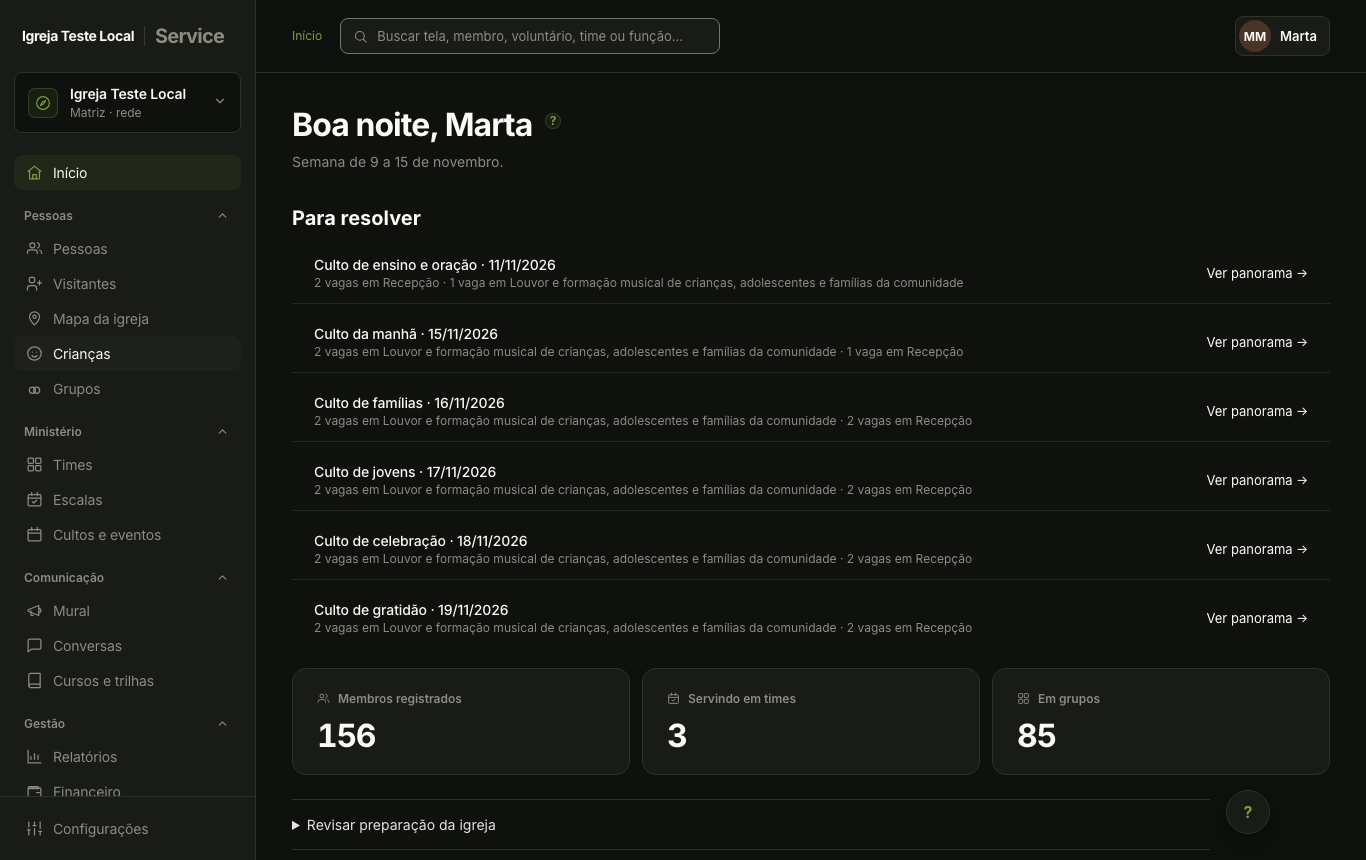
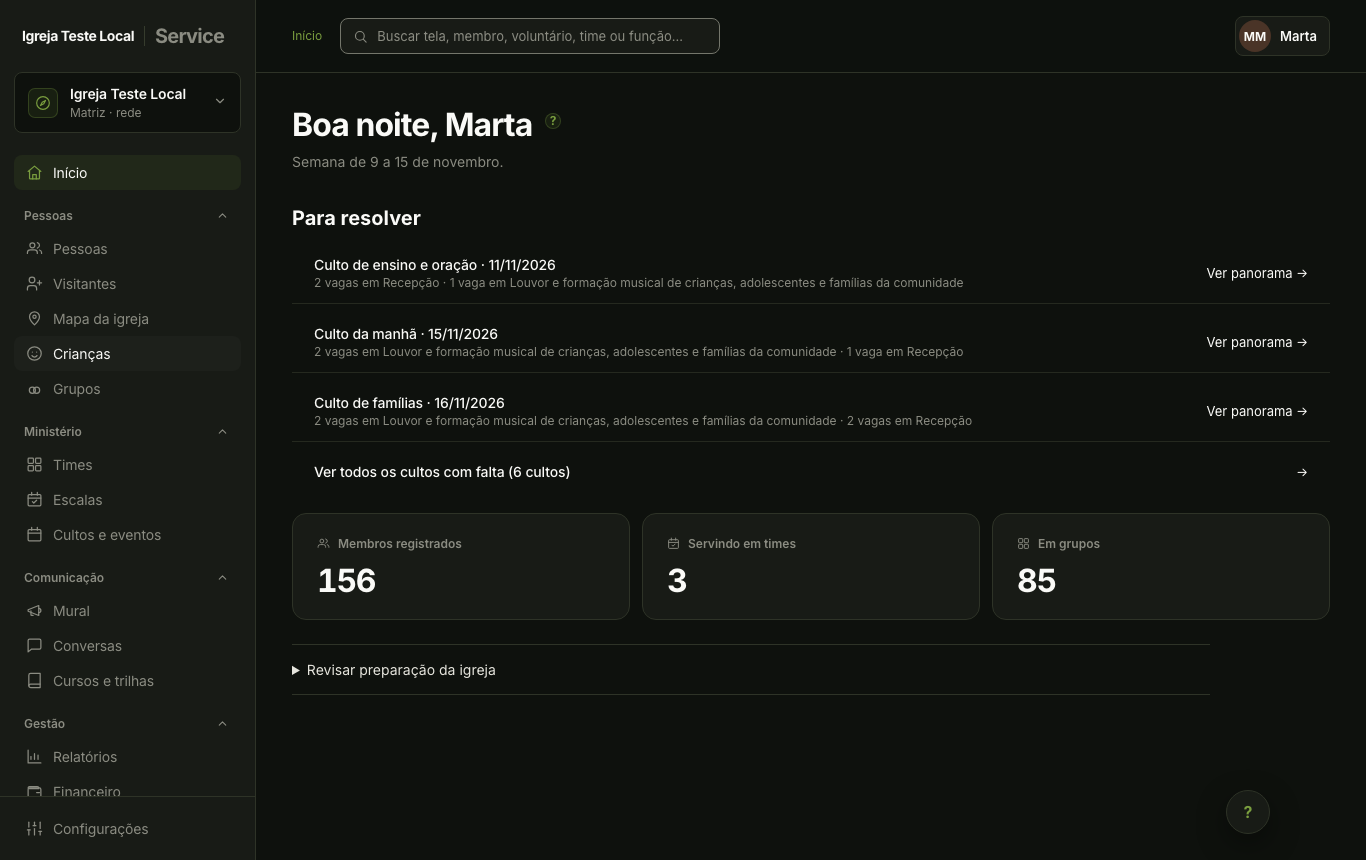
fix(service): limitar cobertura a três prazos no Início

diff --git a/app/service/painel/telas/Inicio.tsx b/app/service/painel/telas/Inicio.tsx
@@ -330,13 +330,12 @@ export function Painel({
         </section>
       )}
       {/* E3: pendências do módulo Escalas, por prazo; uma linha por culto,
-         sem cortar os próximos 14 dias. A cobertura detalhada vive no Panorama. */}
+         até três prazos à vista e uma entrada para a lista completa. O detalhe vive no Panorama. */}
       {!ativando && (() => {
-        const filas: Array<{ key: string; ic: string; t: string; s: string; go: string; action: () => void }> = [];
-        for (const { conteudo: { evento, resumo } } of faltas) {
+        const filas: Array<{ key: string; t: string; s: string; go: string; action: () => void }> = [];
+        for (const { conteudo: { evento, resumo } } of faltas.slice(0, 3)) {
           filas.push({
             key: `cobertura-${evento.id}`,
-            ic: "escalas",
             t: `${evento.name} · ${formatDateBR(evento.eventDate)}`,
             s: ` · ${resumo}`,
             go: "Ver panorama →",
@@ -344,22 +343,31 @@ export function Painel({
           });
         }
         if (!liderDeTime && podeAbrir("visitantes") && visitantesSemContato > 0) {
-          filas.push({ key: "visitantes-contato", ic: "visitante", t: visitantesSemContato === 1 ? "1 visitante sem contato" : `${visitantesSemContato} visitantes sem contato`, s: " · há mais de 48h", go: "Ver →", action: () => setRoute("visitantes") });
+          filas.push({ key: "visitantes-contato", t: visitantesSemContato === 1 ? "1 visitante sem contato" : `${visitantesSemContato} visitantes sem contato`, s: " · há mais de 48h", go: "Ver →", action: () => setRoute("visitantes") });
         }
         if (!liderDeTime && podeAbrir("visitantes") && visitantesPeloLink > 0) {
-          filas.push({ key: "visitantes-link", ic: "visitante", t: `${plural(visitantesPeloLink, "visitante")} ${visitantesPeloLink === 1 ? "se cadastrou" : "se cadastraram"} pelo link`, s: " · esperando o 1º contato", go: "Ver →", action: () => setRoute("visitantes") });
+          filas.push({ key: "visitantes-link", t: `${plural(visitantesPeloLink, "visitante")} ${visitantesPeloLink === 1 ? "se cadastrou" : "se cadastraram"} pelo link`, s: " · esperando o 1º contato", go: "Ver →", action: () => setRoute("visitantes") });
         }
         if (!liderDeTime && journeyRequests.length > 0) {
-          filas.push({ key: "jornada", ic: "membros", t: journeyRequests.length === 1 ? ct("1 pedido na {caminhada}") : ct(`${journeyRequests.length} pedidos na {caminhada}`), s: " · esperando aprovação", go: "Revisar →", action: () => { const el = document.getElementById("caminhada-pendente"); if (el) el.scrollIntoView({ behavior: "smooth", block: "center" }); else setRoute("membros"); } });
+          filas.push({ key: "jornada", t: journeyRequests.length === 1 ? ct("1 pedido na {caminhada}") : ct(`${journeyRequests.length} pedidos na {caminhada}`), s: " · esperando aprovação", go: "Revisar →", action: () => { const el = document.getElementById("caminhada-pendente"); if (el) el.scrollIntoView({ behavior: "smooth", block: "center" }); else setRoute("membros"); } });
         }
         if (!liderDeTime && pedidosPendentes > 0) {
-          filas.push({ key: "novos-cadastros", ic: "pessoa", t: pedidosPendentes === 1 ? "1 pedido de conta pendente" : `${pedidosPendentes} pedidos de conta pendentes`, s: " · aguardando aprovação", go: "Revisar →", action: () => { const el = document.getElementById("novos-cadastros"); if (el) el.scrollIntoView({ behavior: "smooth", block: "center" }); } });
+          filas.push({ key: "novos-cadastros", t: pedidosPendentes === 1 ? "1 pedido de conta pendente" : `${pedidosPendentes} pedidos de conta pendentes`, s: " · aguardando aprovação", go: "Revisar →", action: () => { const el = document.getElementById("novos-cadastros"); if (el) el.scrollIntoView({ behavior: "smooth", block: "center" }); } });
         }
         if (!liderDeTime && cuidado && cuidado.lista.length > 0) {
-          filas.push({ key: "cuidado", ic: "alerta", t: `${plural(cuidado.lista.length, "pessoa")} sem registro`, s: ` · há ${plural(cuidado.semanas, "semana")} ou mais`, go: "Ver →", action: () => setRoute("membros") });
+          filas.push({ key: "cuidado", t: `${plural(cuidado.lista.length, "pessoa")} sem registro`, s: ` · há ${plural(cuidado.semanas, "semana")} ou mais`, go: "Ver →", action: () => setRoute("membros") });
         }
         if (!liderDeTime && cuidado && (cuidado.criancas?.length ?? 0) > 0) {
-          filas.push({ key: "kids-sumindo", ic: "kids", t: `${plural(cuidado.criancas!.length, "criança")} sem check-in`, s: " · vale um contato", go: "Ver →", action: () => setRoute("criancas") });
+          filas.push({ key: "kids-sumindo", t: `${plural(cuidado.criancas!.length, "criança")} sem check-in`, s: " · vale um contato", go: "Ver →", action: () => setRoute("criancas") });
+        }
+        if (faltas.length > 3) {
+          filas.push({
+            key: "cobertura-todos",
+            t: `${ct("Ver todos os {cultos} com falta")} (${plural(faltas.length, ct("{culto}"))})`,
+            s: "",
+            go: "→",
+            action: () => setRoute("escalas"),
+          });
         }
         if (filas.length > 0) {
           return (
@@ -370,7 +378,7 @@ export function Painel({
                   <Acao className={linhaClasse({})} key={f.key} onClick={f.action}>
                     <div className="mini-main">
                       <div className="mini-title">{f.t}</div>
-                      <div className="mini-sub">{f.s.replace(/^ · /, "")}</div>
+                      {f.s && <div className="mini-sub">{f.s.replace(/^ · /, "")}</div>}
                     </div>
                     <span className="text-pn-14">{f.go}</span>
                   </Acao>

diff --git a/app/service/modules/escalas/manifest.ts b/app/service/modules/escalas/manifest.ts
@@ -35,9 +35,9 @@ export default defineModule({
     {
       tela: "Início do painel: Para resolver, seis cultos e time com nome longo (E3)",
       tamanho: "1366×860",
-      medido: { palavras: 231, acoes: 34, sobreposicoes: 0 },
+      medido: { palavras: 159, acoes: 32, sobreposicoes: 0 },
       limite: { palavras: 100, acoes: 25, sobreposicoes: 0 },
-      motivo: "Fora dos limites. O pior caso solicitado tem seis cultos com falta e o nome completo do time em cada linha. Uma linha por culto mantém data e destinatário da ação claros e acessíveis, sem truncar a lista dos 14 dias. A ajuda fixa tem seu espaço reservado na preparação. O detalhe permanece exclusivamente no Panorama, que mede 9 ações e 46 palavras com o mesmo time longo.",
+      motivo: "Fora dos limites. O pior caso solicitado tem seis cultos com falta e o nome completo do time. A lei 5 limita a cobertura aos três prazos mais próximos; a linha final informa o total de seis e abre Escalas. A revisão reduz a tela de 34 ações e 231 palavras para 32 ações e 159 palavras. A ajuda fixa tem seu espaço reservado na preparação. O detalhe permanece exclusivamente no Panorama, que mede 9 ações e 46 palavras com o mesmo time longo.",
     },
     {
       tela: "Agenda: Quando posso servir, lista de ausências",
